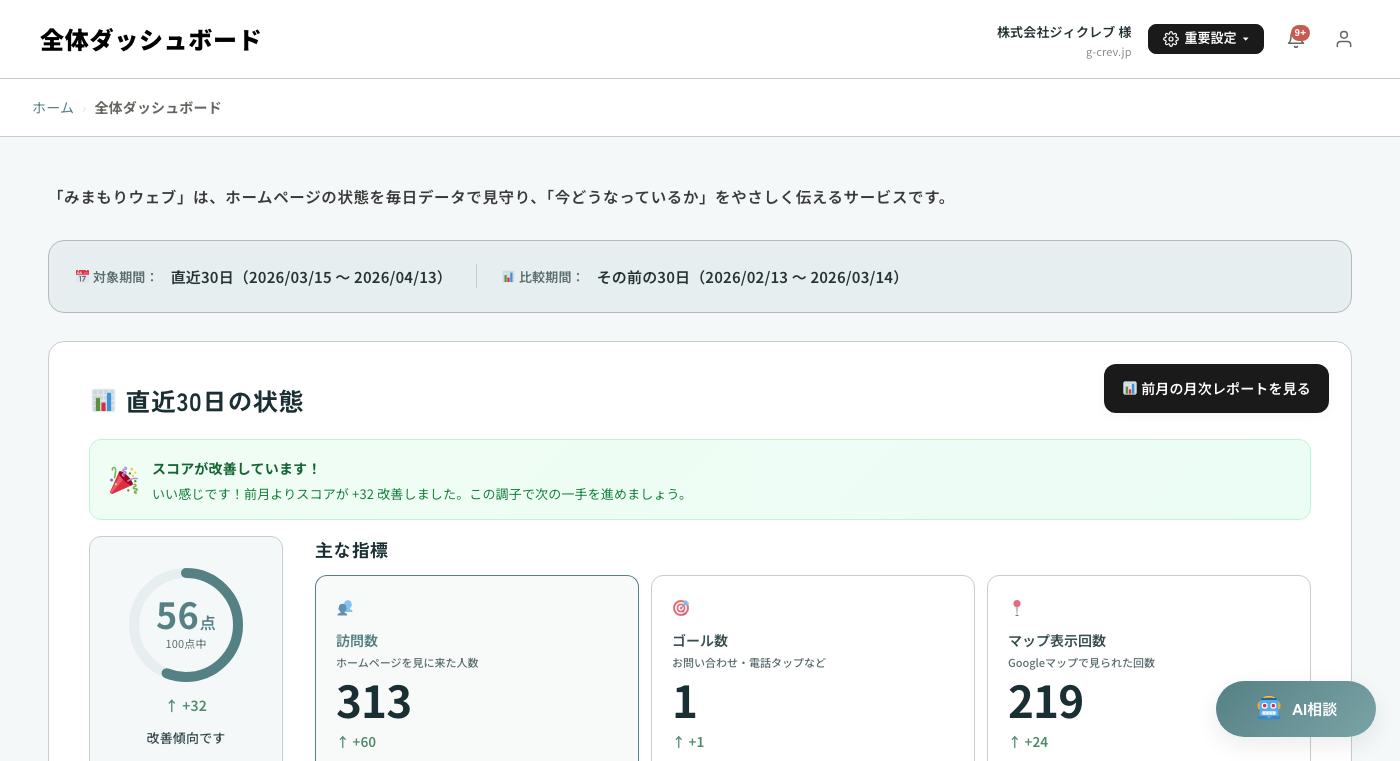
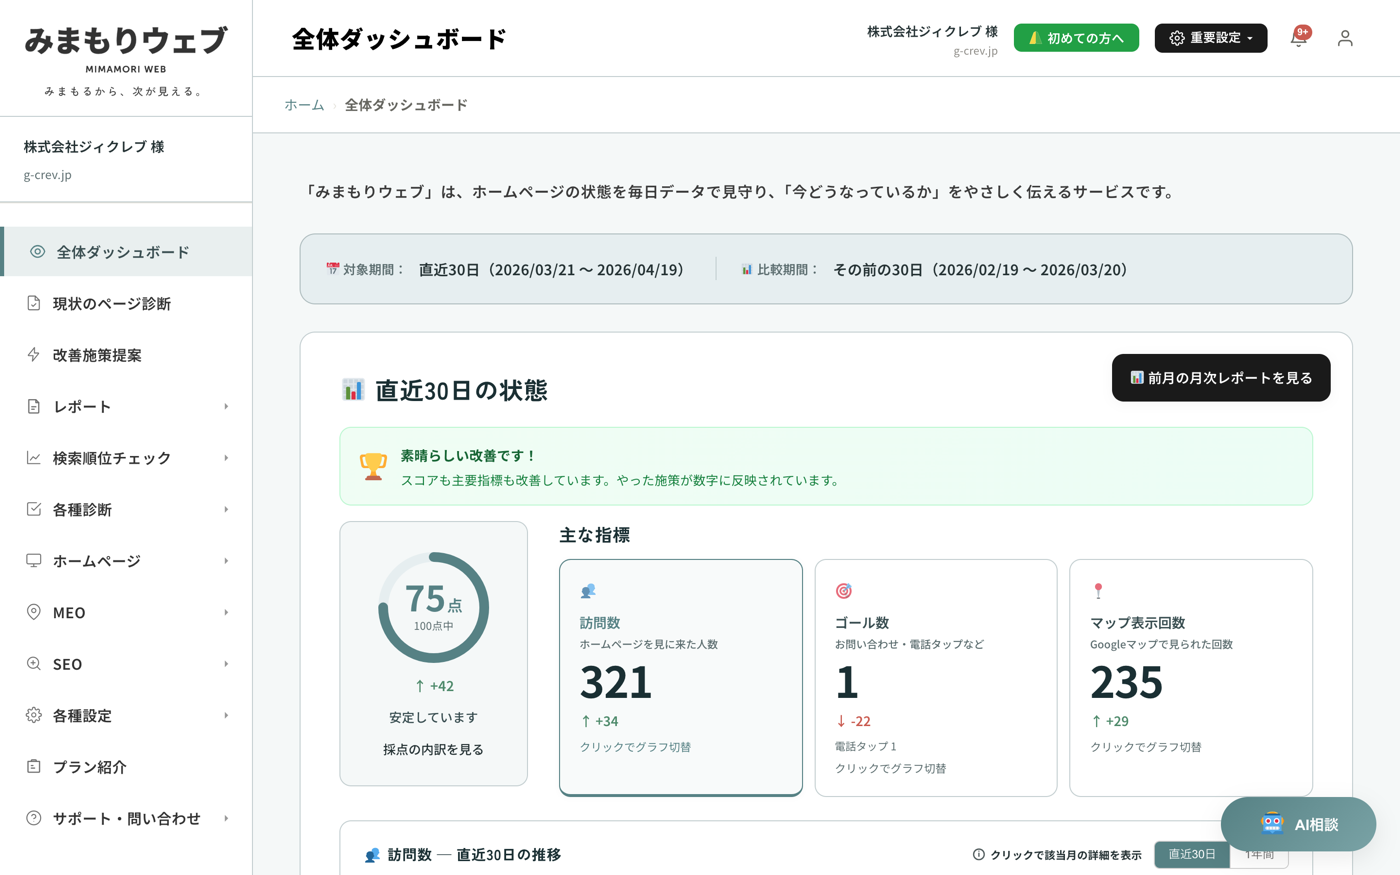
tweak: 使い方ガイドのキャプチャを全4枚サイドバー付きに統一、STEPタグ拡大
- dashboard.png と report.png を Dev から取り直し（左サイドメニュー入り）
- 各メイン画面カードの「STEP 1 ／ 〇〇」タグを 11px → 22px に拡大（モバイルは17px）

diff --git a/page-tutorials.php b/page-tutorials.php
@@ -236,12 +236,13 @@ get_header();
 .tut-main-card--report    { border-left: 5px solid #B8922E; }
 .tut-main-card-tag {
     display: inline-block;
-    font-size: 11px;
-    font-weight: 700;
-    padding: 3px 10px;
-    border-radius: 10px;
+    font-size: 22px;
+    font-weight: 800;
+    padding: 6px 16px;
+    border-radius: 14px;
     color: #fff;
-    margin-bottom: 8px;
+    margin-bottom: 12px;
+    letter-spacing: 0.02em;
 }
 .tut-main-card-tag--dashboard { background: #4A6FA5; }
 .tut-main-card-tag--diagnosis { background: #C97A91; }
@@ -520,6 +521,11 @@ get_header();
     }
     .tut-flow {
         grid-template-columns: repeat(2, 1fr);
+    }
+    .tut-main-card-tag {
+        font-size: 17px;
+        padding: 5px 12px;
+        border-radius: 12px;
     }
     .tut-chat-box {
         flex-direction: column;
